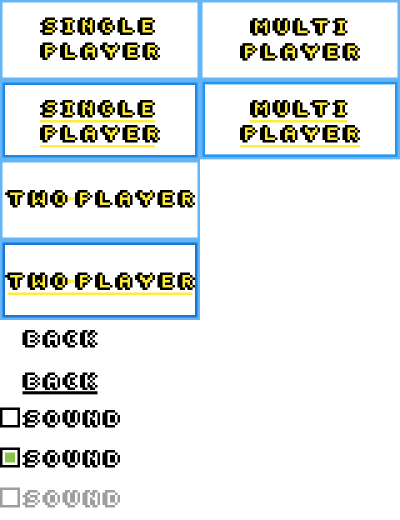
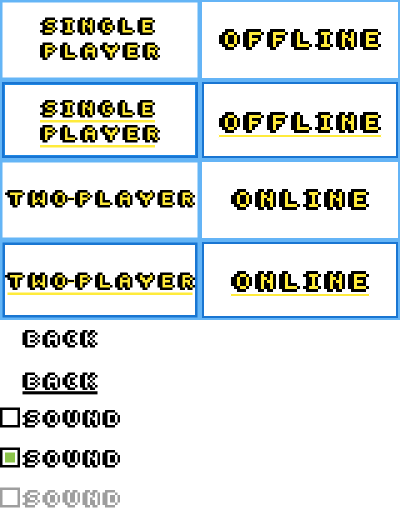
Update gui and optimize cpu usage

diff --git a/src/Bomberman/Game.java b/src/Bomberman/Game.java
@@ -11,20 +11,22 @@ import Bomberman.sounds.Playlist;
 
 import javax.swing.*;
 import java.awt.*;
+import java.awt.event.WindowEvent;
+import java.awt.event.WindowListener;
 import java.awt.image.BufferStrategy;
 
-public class Game implements Runnable {
+public class Game {
     public final Display window;
     public int width;
     public int height;
 
-    private boolean running = false;
-    private Thread thread;
+    private boolean running = true;
 
     private final GameScene1 gameScene1;
     private final GameScene2 gameScene2;
     private final GameScene3 gameScene3;
     private final MenuScene menuScene;
+    private final OptionScene optionScene;
     private final ResultScene resultScene;
 
     private final KeyManager keyMN = new KeyManager();
@@ -48,6 +50,44 @@ public class Game implements Runnable {
         window.getWindow().addMouseMotionListener(mouseMN);
         window.getCanvas().addMouseListener(mouseMN);
         window.getCanvas().addMouseMotionListener(mouseMN);
+        window.getWindow().addWindowListener(new WindowListener() {
+            @Override
+            public void windowOpened(WindowEvent e) {
+
+            }
+
+            @Override
+            public void windowClosing(WindowEvent e) {
+
+            }
+
+            @Override
+            public void windowClosed(WindowEvent e) {
+                running = false;
+                Playlist.close();
+                System.out.println("close");
+            }
+
+            @Override
+            public void windowIconified(WindowEvent e) {
+
+            }
+
+            @Override
+            public void windowDeiconified(WindowEvent e) {
+
+            }
+
+            @Override
+            public void windowActivated(WindowEvent e) {
+
+            }
+
+            @Override
+            public void windowDeactivated(WindowEvent e) {
+
+            }
+        });
         gameScene1 = new GameScene1(this);
         gameScene2 = new GameScene2(this);
 
@@ -62,9 +102,10 @@ public class Game implements Runnable {
 
         gameScene3 = new GameScene3(this);
         menuScene = new MenuScene(this);
+        optionScene = new OptionScene(this);
         resultScene = new ResultScene(this);
         MyScene.setCurrentScene(menuScene);
-        font = new Font(Font.MONOSPACED, Font.BOLD, 20);
+        font = new Font(Font.MONOSPACED, Font.BOLD, 14);
     }
 
     public KeyManager getKeyMN() {
@@ -89,6 +130,10 @@ public class Game implements Runnable {
 
     public MenuScene getMenuScene() {
         return menuScene;
+    }
+
+    public OptionScene getOptionScene() {
+        return optionScene;
     }
 
     public ResultScene getResultScene() {
@@ -119,14 +164,13 @@ public class Game implements Runnable {
             System.out.println("No scene initialized!");
         }
         g.setFont(font);
-        g.drawString("FPS: " + displayFPS, 1380, 852);
+        g.drawString("FPS: " + displayFPS, 862, 532);
 
         //end drawing
         bs.show();
         g.dispose();
     }
 
-    @Override
     public void run() {
         int fps = 60;
         double perFrame = 1000000000 / (double) fps;
@@ -154,26 +198,13 @@ public class Game implements Runnable {
                 ticks = 0;
                 timer = 0;
             }
+            try {
+                Thread.sleep(10); // reduce the high cpu usage by half.
+            } catch (InterruptedException e) {
+                e.printStackTrace();
+            }
         }
-        stop();
-    }
 
-    public synchronized void start() {
-        if (running) {
-            return;
-        }
-        running = true;
-        thread = new Thread(this);
-        thread.start();
-    }
-
-    public synchronized void stop() {
         running = false;
-        try {
-            Playlist.close();
-            thread.join();
-        } catch (Exception e) {
-            e.printStackTrace();
-        }
     }
 }

diff --git a/src/Bomberman/scenes/MenuScene.java b/src/Bomberman/scenes/MenuScene.java
@@ -10,14 +10,12 @@ import java.awt.*;
 public class MenuScene extends MyScene {
     private final SceneButton onePlayer;
     private final SceneButton twoPlayer;
-    private final SceneButton multiplayer;
     private final SoundButton soundButton;
 
     public MenuScene(Game game) {
         super(game);
-        onePlayer = new SceneButton(game, Resources.onePlayer1, Resources.onePlayer2, 400, 120);
-        twoPlayer = new SceneButton(game, Resources.twoPlayer1, Resources.twoPlayer2, 400, 240);
-        multiplayer = new SceneButton(game, Resources.multiPlayer1, Resources.multiPlayer2, 400, 360);
+        onePlayer = new SceneButton(game, Resources.onePlayer1, Resources.onePlayer2, 400, 160);
+        twoPlayer = new SceneButton(game, Resources.twoPlayer1, Resources.twoPlayer2, 400, 260);
         soundButton = new SoundButton(game, 860, 486);
     }
 
@@ -25,8 +23,7 @@ public class MenuScene extends MyScene {
     public void update() {
         soundButton.update();
         onePlayer.update(game.getGameScene1());
-        twoPlayer.update(game.getGameScene2());
-        multiplayer.update(game.getGameScene3());
+        twoPlayer.update(game.getOptionScene());
     }
 
     @Override
@@ -35,6 +32,5 @@ public class MenuScene extends MyScene {
         soundButton.render(g);
         twoPlayer.render(g);
         onePlayer.render(g);
-        multiplayer.render(g);
     }
 }

diff --git a/src/Bomberman/scenes/OptionScene.java b/src/Bomberman/scenes/OptionScene.java
@@ -1,0 +1,40 @@
+package Bomberman.scenes;
+
+import Bomberman.Game;
+import Bomberman.graphics.SceneButton;
+import Bomberman.graphics.SoundButton;
+import Bomberman.graphics.gallery.Resources;
+
+import java.awt.*;
+
+public class OptionScene extends MyScene {
+    private final SceneButton offline;
+    private final SceneButton online;
+    private final SceneButton back;
+    private final SoundButton soundButton;
+
+    public OptionScene(Game game) {
+        super(game);
+        offline = new SceneButton(game, Resources.offline1, Resources.offline2, 400, 140);
+        online = new SceneButton(game, Resources.online1, Resources.online2, 400, 240);
+        back = new SceneButton(game, Resources.back1, Resources.back2, 440, 340);
+        soundButton = new SoundButton(game, 860, 486);
+    }
+
+    @Override
+    public void update() {
+        soundButton.update();
+        offline.update(game.getGameScene2());
+        online.update(game.getGameScene3());
+        back.update(game.getMenuScene());
+    }
+
+    @Override
+    public void render(Graphics g) {
+        g.drawImage(Resources.menuBG, 0, 0, null);
+        soundButton.render(g);
+        offline.render(g);
+        online.render(g);
+        back.render(g);
+    }
+}

diff --git a/src/Bomberman/graphics/SceneButton.java b/src/Bomberman/graphics/SceneButton.java
@@ -28,6 +28,7 @@ public class SceneButton {
     }
 
     public void update(MyScene scene) {
+
         state = false;
         if ((game.getMouseMN().getMx() >= x && game.getMouseMN().getMy() >= y) &&
             (game.getMouseMN().getMx() <= x + width && game.getMouseMN().getMy() <= y + height)) {
@@ -44,6 +45,7 @@ public class SceneButton {
                     game.getGameScene3().reset();
                 }
                 MyScene.setCurrentScene(scene);
+                game.getMouseMN().setLeft(false);
             }
         }
     }

diff --git a/src/Bomberman/input/MouseManager.java b/src/Bomberman/input/MouseManager.java
@@ -27,6 +27,14 @@ public class MouseManager implements MouseListener, MouseMotionListener {
         return right;
     }
 
+    public void setLeft(boolean left) {
+        this.left = left;
+    }
+
+    public void setRight(boolean right) {
+        this.right = right;
+    }
+
     public MouseManager() {
 
     }

diff --git a/src/Bomberman/scenes/GameScene2.java b/src/Bomberman/scenes/GameScene2.java
@@ -50,7 +50,7 @@ public class GameScene2 extends MyScene { // 2 player
         gameMap.update();
         luigi.update();
         minotaur.update();
-        back.update(game.getMenuScene());
+        back.update(game.getOptionScene());
         soundButton.update();
 
         if (!luigi.alive || !minotaur.alive) {

diff --git a/src/Bomberman/Main.java b/src/Bomberman/Main.java
@@ -4,6 +4,6 @@ public class Main {
 
     public static void main(String[] args) {
         Game game = new Game("Bomberman", 1000, 560);
-        game.start();
+        game.run();
     }
 }
